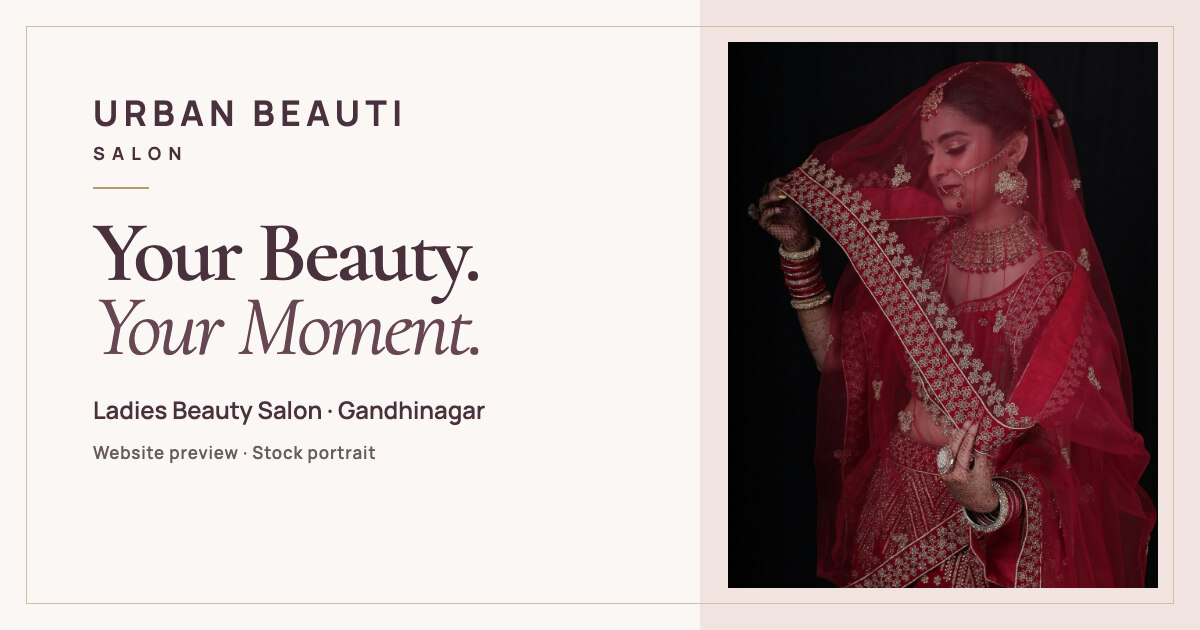
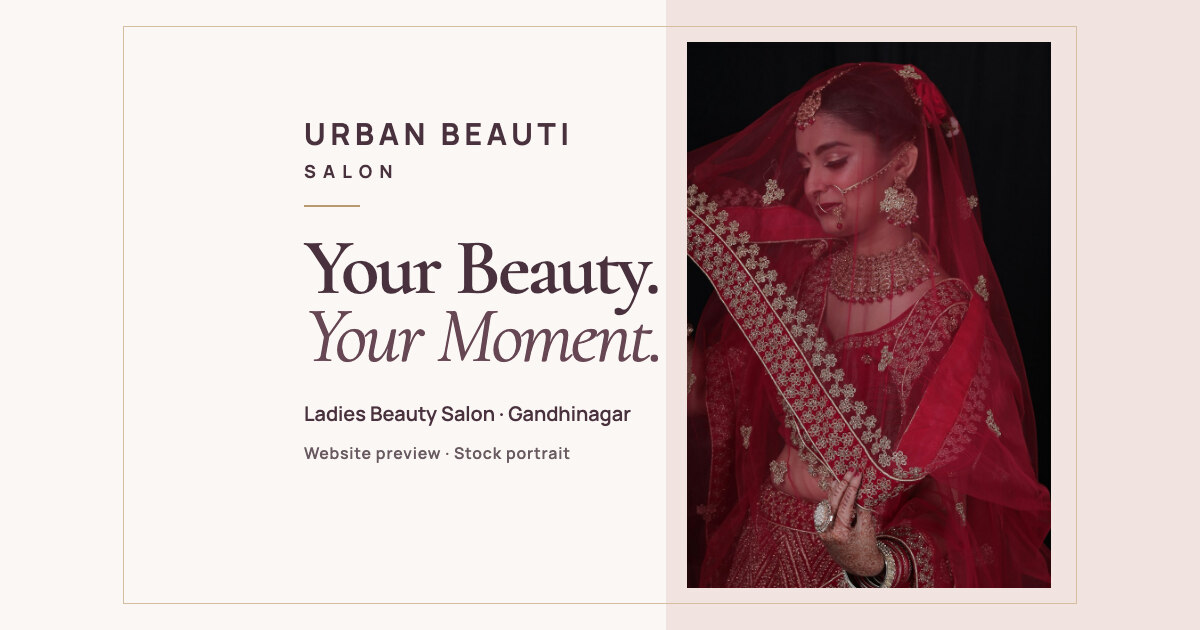
Keep social card lettering inside square preview crop

diff --git a/src/lib/site-metadata.ts b/src/lib/site-metadata.ts
@@ -10,7 +10,7 @@ export const homeDescription =
   'Discover Urban Beauti Salon in Gandhinagar. Explore beauty services, sample prices and a demo appointment request.';
 
 const shareImage = {
-  url: '/opengraph-image.jpg',
+  url: '/opengraph-image.jpg?v=2',
   width: 1200,
   height: 630,
   type: 'image/jpeg',
